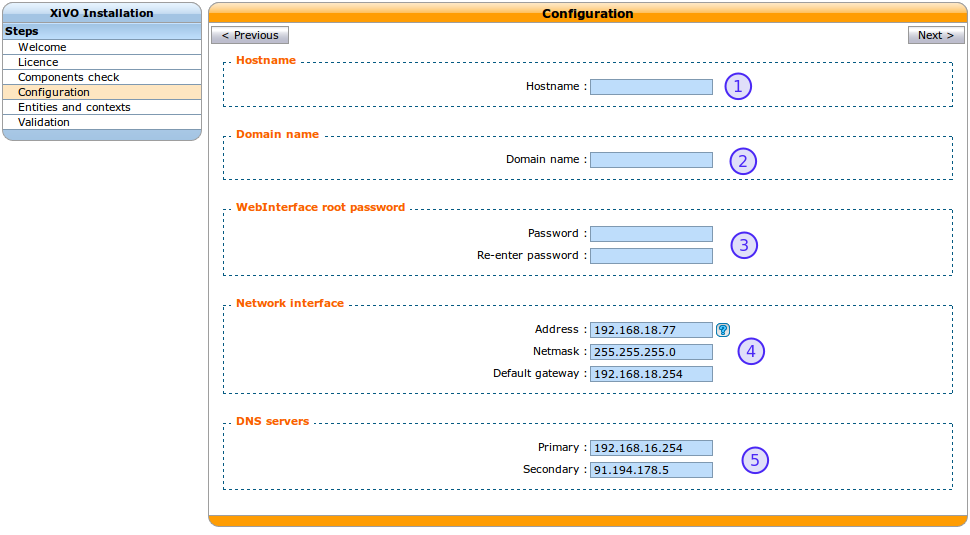
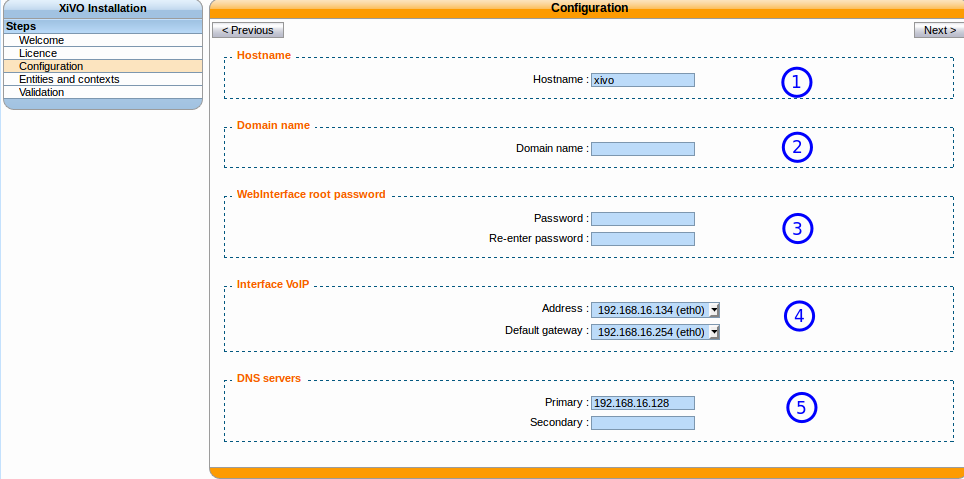
wizard: update screenshot

diff --git a/source/installation/configuration_wizard/configuration_wizard.rst b/source/installation/configuration_wizard/configuration_wizard.rst
@@ -46,12 +46,7 @@ Configuration
 #. Enter the hostname  (Allowed characters are : ``A-Z a-z 0-9 -``)
 #. Enter the domain name (Allowed characters are : ``A-Z a-z 0-9 - .``)
 #. Enter the password for the ``root`` user of the web interface,
-#. Configure the IP address and gateway used by your XiVO (by default it pre-fills the fields with
-   the current IP and gateway of the network interface on which you are connected if the network
-   interface has a default gateway).
-
-   .. note:: The network configuration will be applied at the end of the wizard
-
+#. Configure the IP address and gateway used by the VoIP interface
 #. Finally, modify the DNS server information if needed.
 
 
